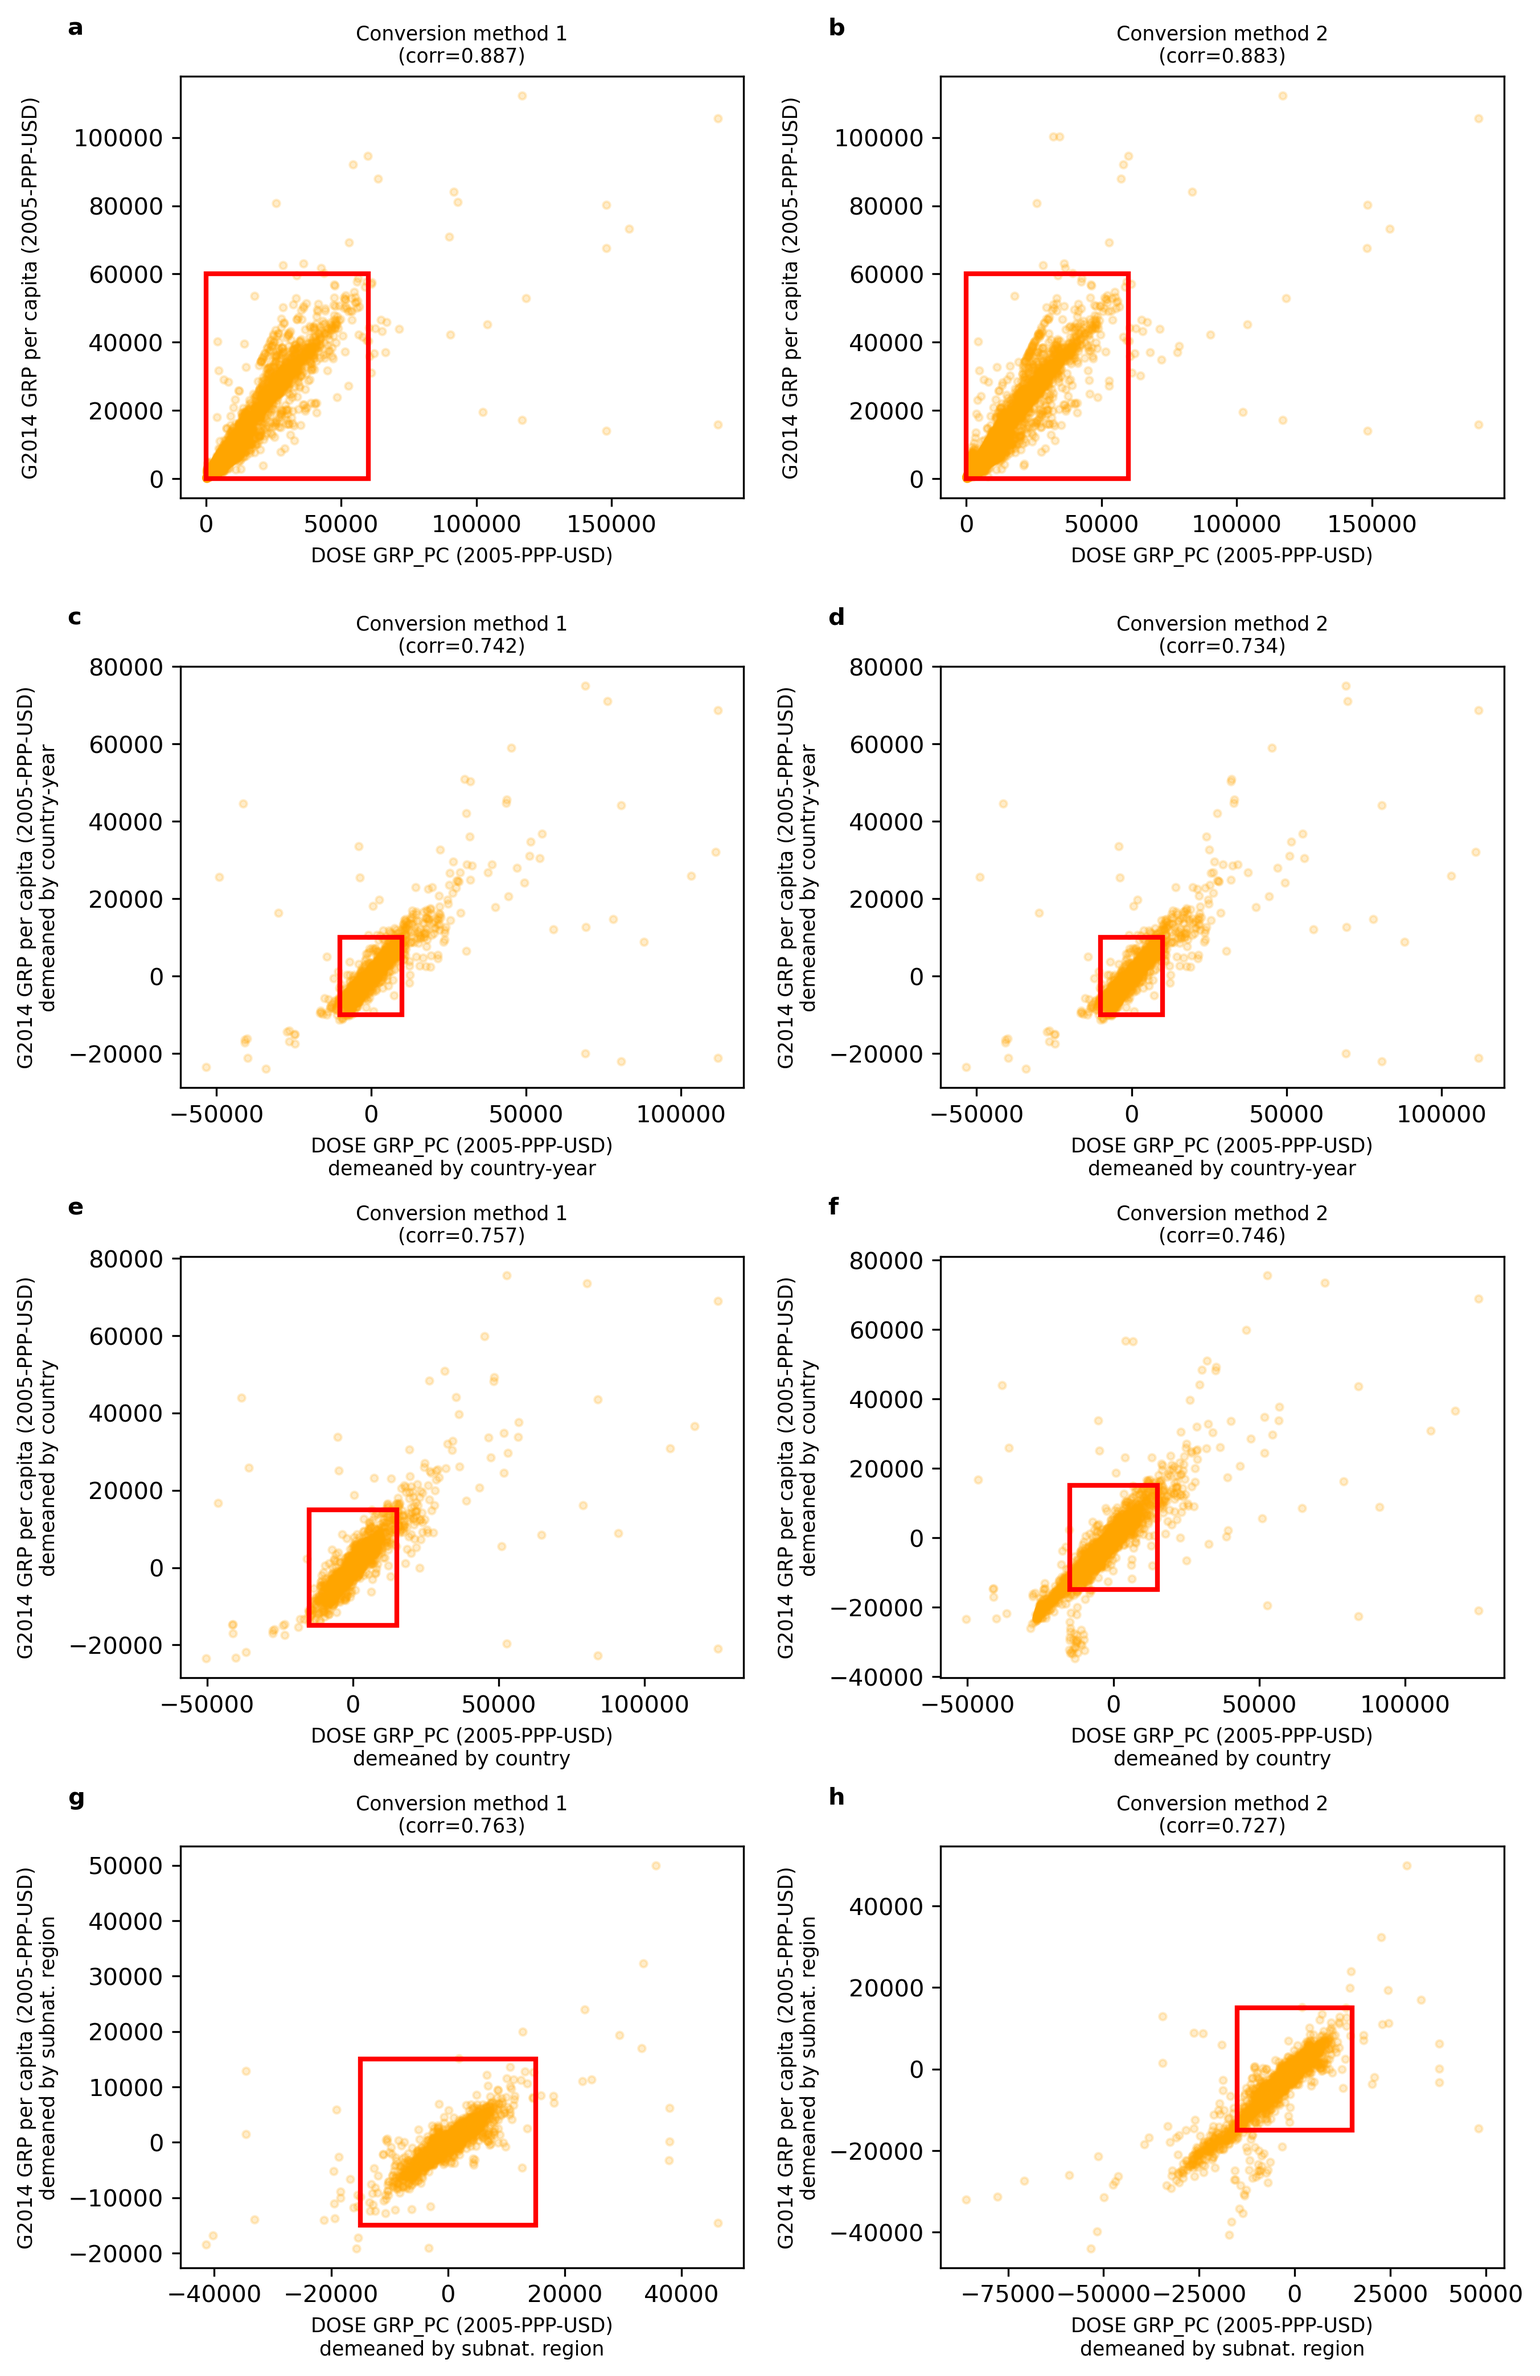
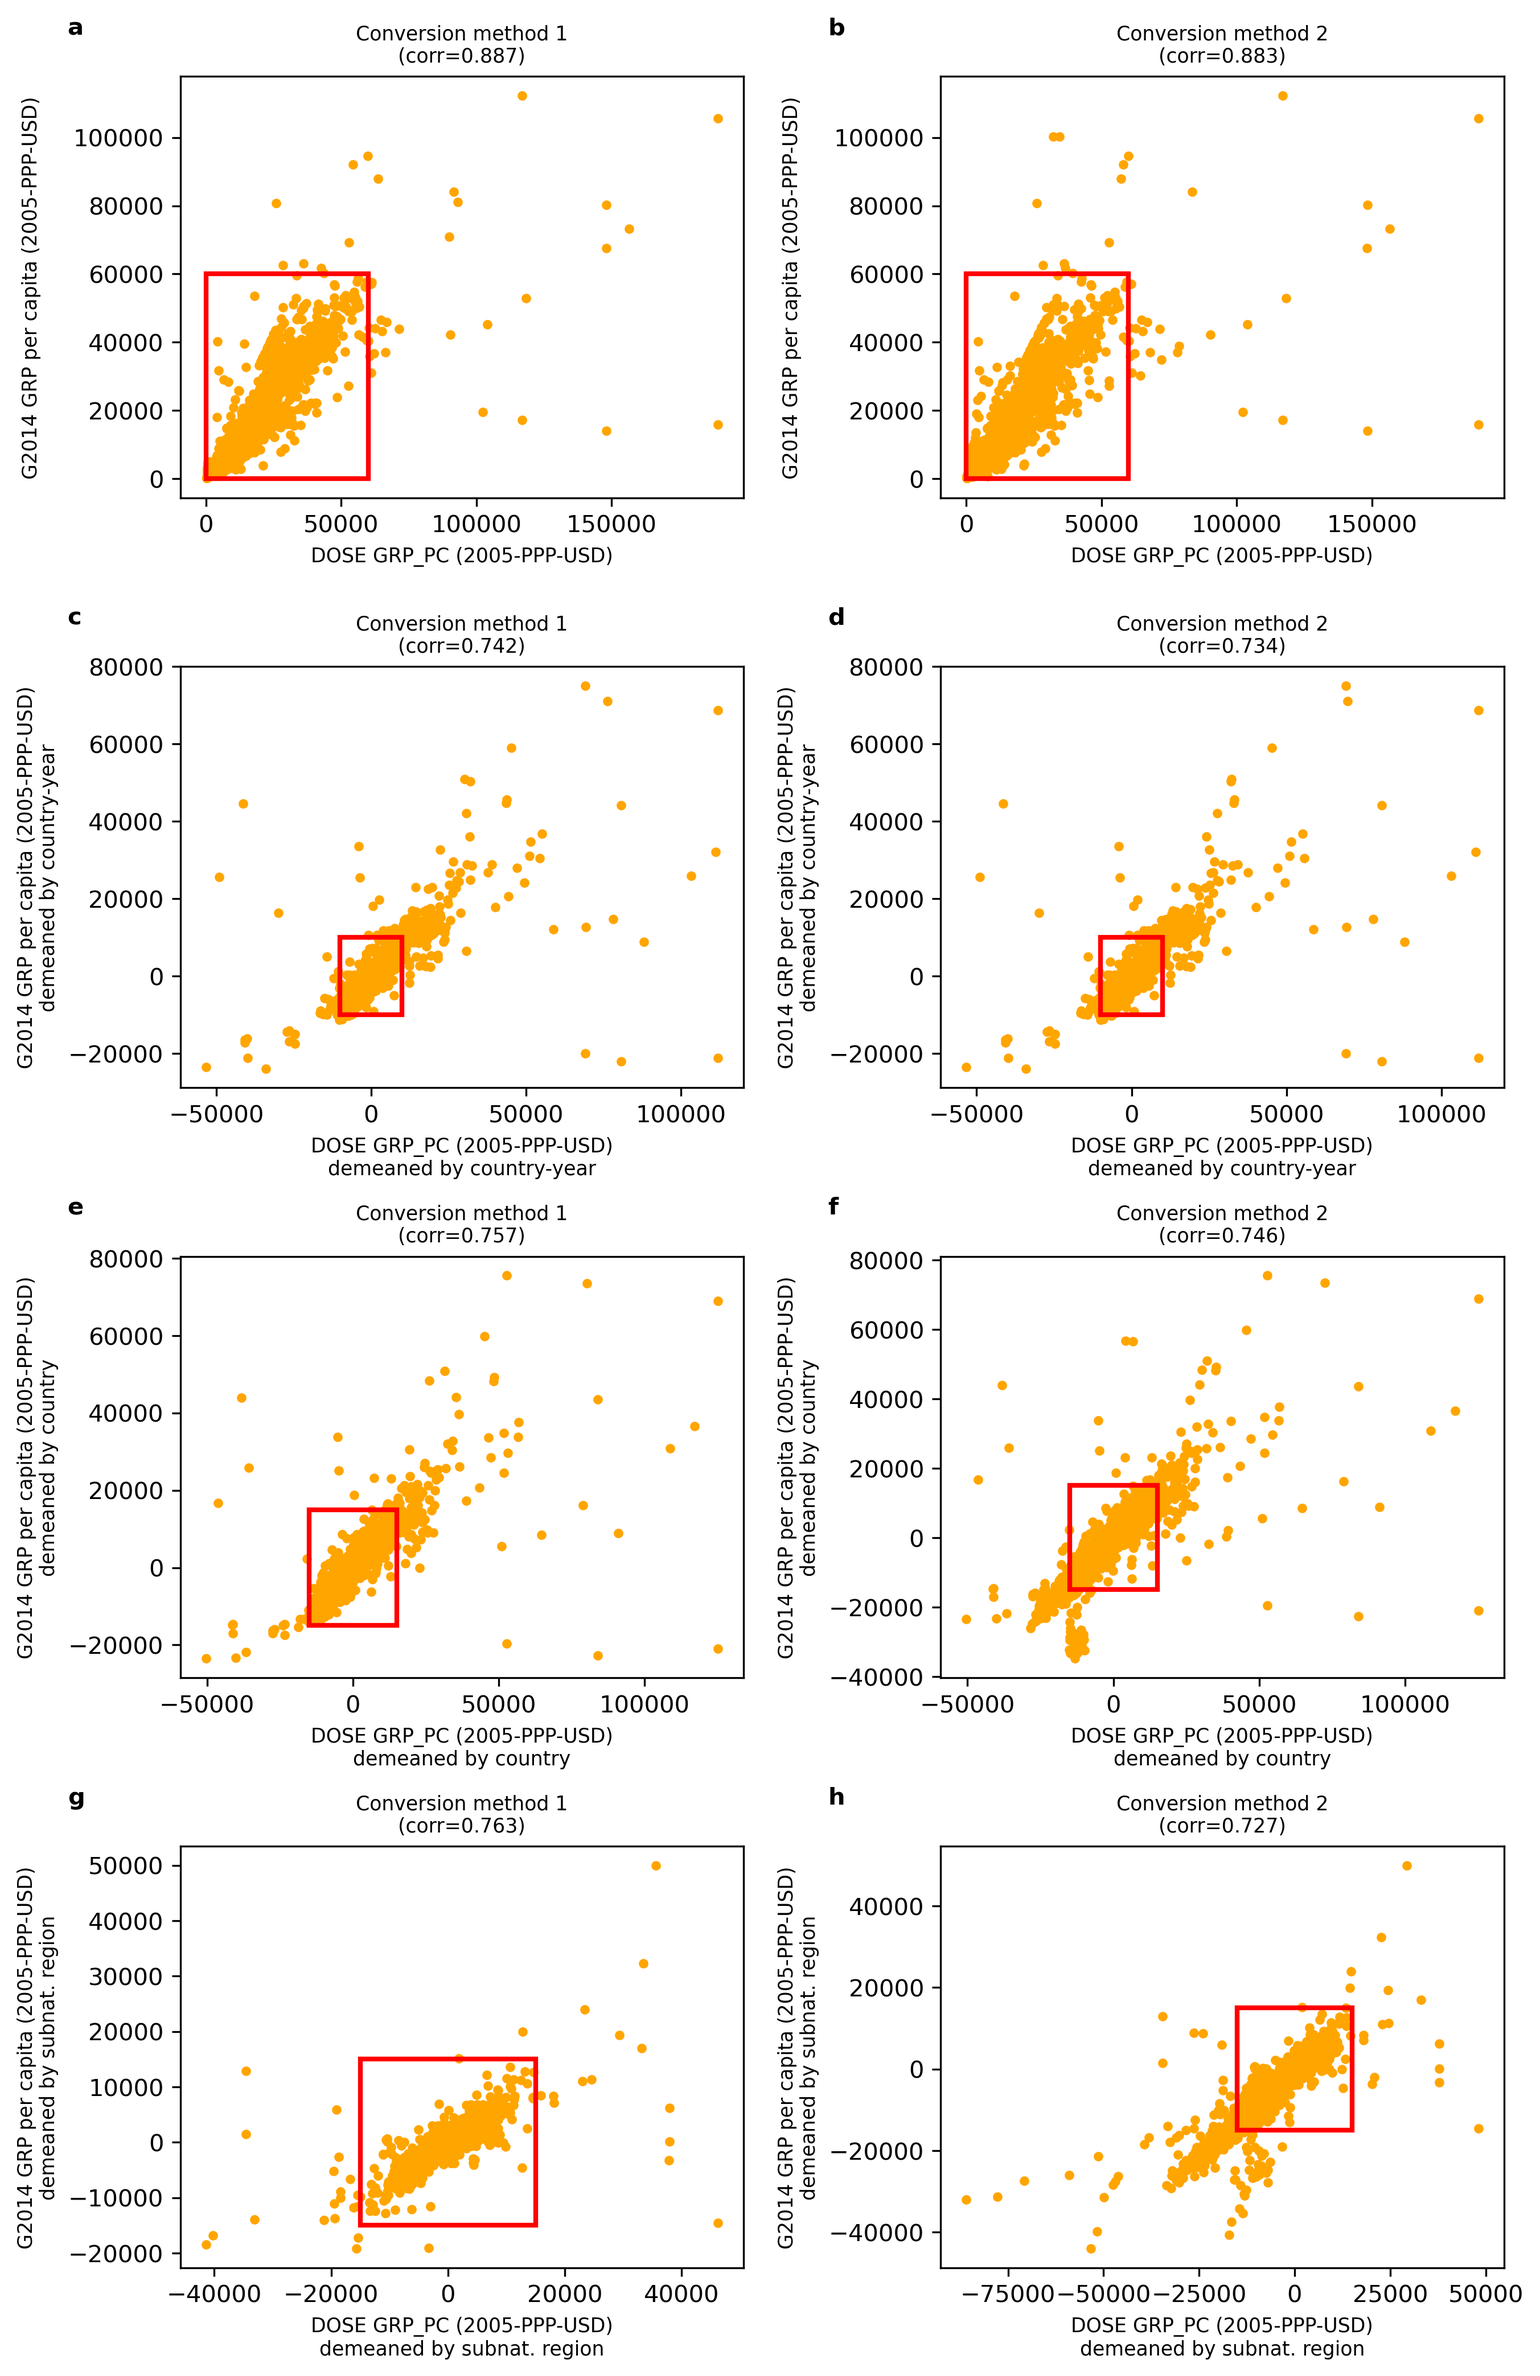
changed plot transparency

diff --git a/code/fig2/0_Figure_7_data.py b/code/fig2/0_Figure_7_data.py
@@ -238,7 +238,7 @@ for m, meth in enumerate(meths):
         ax.append(fig.add_subplot(gs[m,v]))
         ax[m*len(variables)+v].annotate(text=letters[m*len(variables)+v],xy=(-0.2,1.1),xycoords='axes fraction',fontsize='medium',weight='bold')
         ax[m*len(variables)+v].set_title('Conversion method ' + str(v+1) + '\n(corr='+'%.3g'%(correlations[v*len(meths)+m],)+')',fontsize='small')
-        ax[m*len(variables)+v].scatter(data.loc[data['gennaioli2014'+meth].notna()][var+meth], data.loc[data['gennaioli2014'+meth].notna(),'gennaioli2014'+meth],marker='.',alpha=0.2,color='orange')
+        ax[m*len(variables)+v].scatter(data.loc[data['gennaioli2014'+meth].notna()][var+meth], data.loc[data['gennaioli2014'+meth].notna(),'gennaioli2014'+meth],marker='.',alpha=1,color='orange')
 
         if 'ppp' in var:
             ax[m*len(variables)+v].set_xlabel('DOSE GRP_PC (2005-PPP-USD)\n'+labels[m], fontsize='small')
